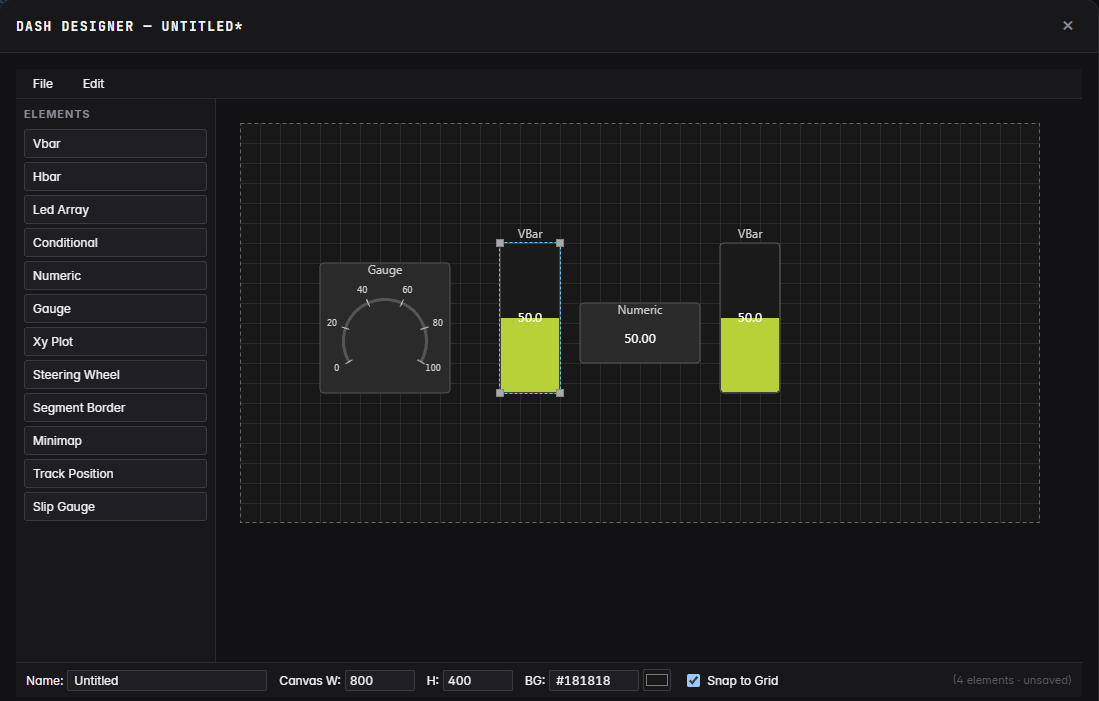
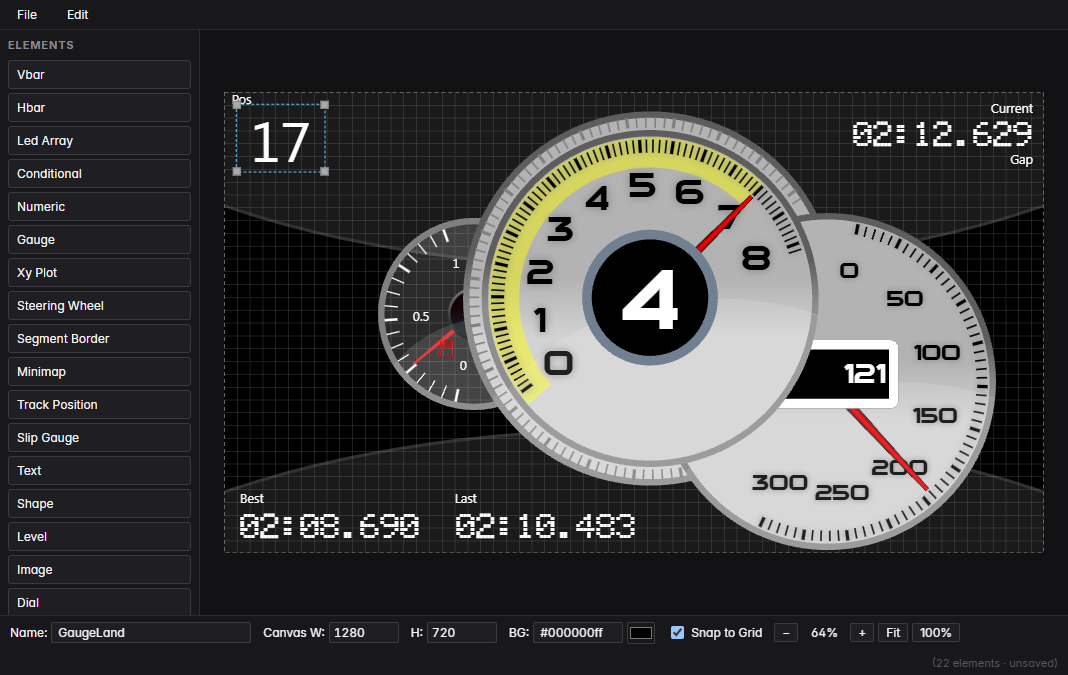
docs: add Dash formulas and Import SimHub dashes pages, update the Dash Designer
Two new Plugins pages after the Dash Designer:
- Dash formulas: formula rows on any element, the Drives targets, operators
  and functions, reading iRacing channels and SimHub names, Format patterns,
  and the JS / error markers.
- Import SimHub dashes: dash folders and packages, fonts from DashFonts, the
  import report's badges, what carries over, and saving the import.

The Dash Designer page gains the Text, Shape, Level, Image and Dial elements,
zoom, and images and fonts; its screenshot is retaken with an imported dash.
The Dash page links to the import, Shared sessions notes that embedded images
and fonts aren't shared, and Keyboard and mouse lists the Designer zoom keys.

diff --git a/docs/docs-content.js b/docs/docs-content.js
@@ -1337,7 +1337,7 @@ window.DOCS_ARTICLES = {
 <p>For a bigger view, choose Tools &gt; Libraries &gt; <strong>Dash Library...</strong>. It has the same <strong>Cloud</strong> and <strong>Local</strong> choice as the pane (switching one switches both) and, for Local, a <strong>Folder:</strong> box with <strong>Browse…</strong> and <strong>Reopen</strong>.</p>
 <ul>
   <li>Click a dash to select it and see it full size. Double-click it to open it in the Designer.</li>
-  <li><strong>New</strong> starts an empty dash in the <a href="docs-article.html?page=plugins.dash-designer">Dash Designer</a>, and <strong>Edit</strong> opens the selected one. Editing a cloud dash opens an unsaved local copy; the cloud version never changes.</li>
+  <li><strong>New</strong> starts an empty dash in the <a href="docs-article.html?page=plugins.dash-designer">Dash Designer</a>, and <strong>Edit</strong> opens the selected one. Editing a cloud dash opens an unsaved local copy; the cloud version never changes. To bring in a dash made in SimHub, see <a href="docs-article.html?page=plugins.dash-simhub">Import SimHub dashes</a>.</li>
   <li><strong>Duplicate</strong>, <strong>Rename…</strong> and <strong>Delete</strong> work on local dashes only.</li>
   <li><strong>Refresh</strong> lists the folder again, and <strong>Close</strong> closes the dialog.</li>
 </ul>
@@ -1359,20 +1359,20 @@ window.DOCS_ARTICLES = {
 'plugins.dash-designer': {
   section: 'Plugins',
   title: 'Dash Designer',
-  lede: 'Build your own dashboards from bars, gauges, lights and readouts, and bind each one to a telemetry channel.',
+  lede: 'Build your own dashboards from bars, dials, lights, readouts, text, shapes and images, and bind each one to a telemetry channel.',
   prev: ['plugins.dash', 'Dash'],
-  next: ['timeline.points', 'Timeline points'],
-  toc: ['open', 'elements', 'arrange', 'bind', 'save', 'related'],
-  tocLabels: ['Open the Designer', 'Add elements', 'Select, move and resize', 'Bind an element to a channel', 'Save your dash', 'Related'],
+  next: ['plugins.dash-formulas', 'Dash formulas'],
+  toc: ['open', 'elements', 'arrange', 'bind', 'assets', 'save', 'related'],
+  tocLabels: ['Open the Designer', 'Add elements', 'Select, move, resize and zoom', 'Bind an element to a channel', 'Add images and fonts', 'Save your dash', 'Related'],
   body: `
 <p>The Dash Designer is where you build and edit dashes: place elements on a canvas, bind each one to a telemetry channel, and save the result to your dash folder, ready to drop onto the <a href="docs-article.html?page=plugins.dash">Dash</a> canvas.</p>
-<figure><img src="docs-images/plugins.dash-designer.png" alt="The Dash Designer window with the Elements palette on the left, a canvas holding a gauge, two vertical bars and a numeric readout with one bar selected and its four corner handles showing, and the Name, Canvas W, H, BG and Snap to Grid fields along the bottom." width="1099" height="701" loading="lazy"></figure>
+<figure><img src="docs-images/plugins.dash-designer.png" alt="The Dash Designer with SimHub's GaugeLand dash imported: the Elements palette on the left running from Vbar down to Text, Shape, Level, Image and Dial, the canvas with a speedometer, a rev counter showing gear 4, a small gauge and lap-time readouts, the Pos readout selected with its four corner handles, and the Name, Canvas W, H, BG, Snap to Grid and zoom controls along the bottom." width="1068" height="675" loading="lazy"></figure>
 <h2 id="open">Open the Designer</h2>
 <ul>
   <li>Right-click a dash on the Dash Canvas, or a local thumbnail in the Dash Library pane, and choose <strong>Edit in Dash Designer</strong>.</li>
   <li>In Tools &gt; Libraries &gt; <strong>Dash Library...</strong>, click <strong>New</strong> for an empty dash, or select one and click <strong>Edit</strong>.</li>
 </ul>
-<p>The title shows the dash's name, with an asterisk while you have unsaved changes. The <strong>File</strong> menu has <strong>Save</strong>, <strong>Save As…</strong> and <strong>Close</strong>; the <strong>Edit</strong> menu starts with <strong>Undo</strong> (<code>Ctrl</code>+<code>Z</code>) and <strong>Redo</strong> (<code>Ctrl</code>+<code>Y</code>). Along the bottom, set the <strong>Name:</strong>, the size in pixels (<strong>Canvas W:</strong> and <strong>H:</strong>, 800 by 400 to start) and the background color (<strong>BG:</strong>).</p>
+<p>The title shows the dash's name, with an asterisk while you have unsaved changes. The <strong>File</strong> menu has <strong>Save</strong>, <strong>Save As…</strong>, the two SimHub import items (see <a href="docs-article.html?page=plugins.dash-simhub">Import SimHub dashes</a>) and <strong>Close</strong>; the <strong>Edit</strong> menu starts with <strong>Undo</strong> (<code>Ctrl</code>+<code>Z</code>) and <strong>Redo</strong> (<code>Ctrl</code>+<code>Y</code>). Along the bottom, set the <strong>Name:</strong>, the size in pixels (<strong>Canvas W:</strong> and <strong>H:</strong>, 800 by 400 to start) and the background color (<strong>BG:</strong>).</p>
 <h2 id="elements">Add elements</h2>
 <p>Click an element in the <strong>Elements</strong> palette on the left. It lands in the middle of the canvas, selected. Elements show real values at the playback cursor, so you can check them as you build.</p>
 <ul>
@@ -1380,22 +1380,28 @@ window.DOCS_ARTICLES = {
   <li><strong>Led Array</strong>: a row of lights, each lit when its channel passes a threshold, such as shift lights.</li>
   <li><strong>Conditional</strong>: text and a color chosen by rules; the first rule that matches wins.</li>
   <li><strong>Numeric</strong>: a number readout, as a decimal or a time (mm:ss).</li>
-  <li><strong>Gauge</strong>: a round dial with a needle.</li>
+  <li><strong>Gauge</strong>: a simple round gauge with a needle.</li>
   <li><strong>Xy Plot</strong>: a dot inside a circle, driven by two channels, like a g-meter.</li>
   <li><strong>Steering Wheel</strong>: a wheel that turns with your steering.</li>
   <li><strong>Segment Border</strong>: a line or outline you draw to frame a group of elements.</li>
   <li><strong>Minimap</strong>: a map of the track with a dot for the car.</li>
   <li><strong>Track Position</strong>: a slice across the track showing where the car sits between the edges, and its angle to the track.</li>
   <li><strong>Slip Gauge</strong>: the car's slip angle (where it points against where it's going), or an understeer and oversteer reading.</li>
+  <li><strong>Text</strong>: text in any font. Add a formula to make it show a value.</li>
+  <li><strong>Shape</strong>: a filled rectangle or ellipse, for backgrounds and panels.</li>
+  <li><strong>Level</strong>: a bar or an arc that fills between a low and a high value, smoothly or in steps.</li>
+  <li><strong>Image</strong>: a picture, such as a logo.</li>
+  <li><strong>Dial</strong>: a detailed round gauge with ticks, labels, colored ranges and a needle.</li>
 </ul>
 <p>To draw a Segment Border, click it in the palette, then click on the canvas to add points. Double-click or press <code>Enter</code> to finish, or click the first point to close the shape. <code>Esc</code> cancels.</p>
-<h2 id="arrange">Select, move and resize</h2>
+<h2 id="arrange">Select, move, resize and zoom</h2>
 <ul>
   <li>Click an element to select it. <code>Shift</code>+click adds to the selection, and dragging across empty canvas selects everything the box touches. Select a Segment Border by clicking its line.</li>
   <li>Drag the selection to move it, or nudge it with the arrow keys (hold <code>Shift</code> for 10 pixels).</li>
   <li>Drag one of the four corner handles to resize an element.</li>
   <li><strong>Snap to Grid</strong> (on to start with; <code>G</code> toggles it) lines elements up on a 20-pixel grid when you let go.</li>
   <li><code>Delete</code> removes the selection. The <strong>Edit</strong> menu also has <strong>Copy</strong>, <strong>Paste</strong>, <strong>Bring to Front</strong> and <strong>Send to Back</strong>.</li>
+  <li>To zoom, use the buttons after <strong>Snap to Grid</strong> in the bottom bar: <strong>−</strong> and <strong>+</strong>, <strong>Fit</strong> to see the whole dash, and <strong>100%</strong> for actual size. <code>Ctrl</code>+scroll zooms around the pointer.</li>
 </ul>
 <h2 id="bind">Bind an element to a channel</h2>
 <p>Double-click an element to open its settings. Click <strong>Apply</strong> to keep your changes or <strong>Cancel</strong> to drop them.</p>
@@ -1404,7 +1410,15 @@ window.DOCS_ARTICLES = {
   <li>Give it a <strong>Label</strong>. For bars and gauges, set <strong>Low</strong> and <strong>High</strong> to the range to cover (iRacing's pedals run from 0 to 1).</li>
   <li>To convert the value, pick one under <strong>Conversion</strong>, such as <strong>m/s → km/h</strong> for <code>Speed</code>. Or set <strong>Units</strong> to <strong>Follow app preference</strong> to use the units you chose in <a href="docs-article.html?page=settings.preferences">Preferences</a>.</li>
 </ol>
-<p>A Led Array or Conditional uses rules instead: click <strong>+ Add LED</strong> or <strong>+ Add rule</strong>, then set each row's <strong>Variable</strong>, <strong>Op</strong>, <strong>Threshold</strong> and color. The Xy Plot takes <strong>Variable X</strong> and <strong>Variable Y</strong>. For a Steering Wheel, choose <strong>iRacing</strong> under <strong>Preset</strong>. Every element also has <strong>Position &amp; Size</strong> fields and a <strong>Style</strong> group for borders, colors and fonts.</p>
+<p>A Led Array or Conditional uses rules instead: click <strong>+ Add LED</strong> or <strong>+ Add rule</strong>, then set each row's <strong>Variable</strong>, <strong>Op</strong>, <strong>Threshold</strong> and color. The Xy Plot takes <strong>Variable X</strong> and <strong>Variable Y</strong>. For a Steering Wheel, choose <strong>iRacing</strong> under <strong>Preset</strong>. Every element also has <strong>Position &amp; Size</strong> fields and a <strong>Style</strong> group for borders, colors, corners, opacity and rotation.</p>
+<p>To drive anything else, such as a Text element's words or a color, add a row under <strong>Formulas</strong>: see <a href="docs-article.html?page=plugins.dash-formulas">Dash formulas</a>.</p>
+<h2 id="assets">Add images and fonts</h2>
+<p>Images and fonts are saved inside the dash file, so the dash looks the same wherever it opens.</p>
+<ul>
+  <li><strong>Images:</strong> in an image field, such as an Image element's <strong>Image</strong>, click <strong>Choose…</strong> and pick a PNG, JPEG, GIF, WebP or BMP file, up to 4 MB.</li>
+  <li><strong>Fonts:</strong> in a font field, such as a Text element's <strong>Font</strong>, type the name of an installed font, or click <strong>Embed font…</strong> to add a <code>.ttf</code> or <code>.otf</code> file of up to 2 MB.</li>
+</ul>
+<p>One dash holds up to 16 MB of images and fonts. A dashed gray box with an X marks an image not chosen yet (<strong>no image</strong>) or not in the dash (<strong>missing image</strong>).</p>
 <h2 id="save">Save your dash</h2>
 <p>Dashes save to your local dash folder, which needs Chrome or Edge. In other browsers, <strong>Save</strong> downloads the dash as a <code>.json</code> file instead.</p>
 <ul>
@@ -1422,8 +1436,148 @@ window.DOCS_ARTICLES = {
 <h2 id="related">Related</h2>
 <ul>
   <li><a href="docs-article.html?page=plugins.dash">Dash</a></li>
-  <li><a href="docs-article.html?page=settings.preferences">Preferences</a></li>
+  <li><a href="docs-article.html?page=plugins.dash-formulas">Dash formulas</a></li>
+  <li><a href="docs-article.html?page=plugins.dash-simhub">Import SimHub dashes</a></li>
+</ul>
+`,
+},
+'plugins.dash-formulas': {
+  section: 'Plugins',
+  title: 'Dash formulas',
+  lede: 'Drive any part of a dash element, such as its text, color, visibility or size, with a formula worked out at the playback cursor.',
+  prev: ['plugins.dash-designer', 'Dash Designer'],
+  next: ['plugins.dash-simhub', 'Import SimHub dashes'],
+  toc: ['add', 'write', 'read', 'format', 'markers', 'related'],
+  tocLabels: ['Add a formula to an element', 'Write a formula', 'Read telemetry in a formula', 'Format the result', 'Spot a formula that is not running', 'Related'],
+  body: `
+<p>A formula is a short expression that Slipstream works out each time the dash draws, from the telemetry at the playback cursor. Any element can have formulas, and each one drives one setting: the words in a Text element, a color, whether the element shows, its size and more. Formulas are written in NCalc, the same language SimHub uses, so dashes you import from SimHub keep theirs.</p>
+<figure><img src="docs-images/plugins.dash-formulas.png" alt="The Text Config dialog scrolled down to its Style group and, below it, the Formulas group: one row with Drives set to Text, the formula isnull([Position], '1') and the Format 0, the + Add formula button above the row, and Cancel and Apply at the bottom." width="640" height="640" loading="lazy"></figure>
+<h2 id="add">Add a formula to an element</h2>
+<ol>
+  <li>In the <a href="docs-article.html?page=plugins.dash-designer">Dash Designer</a>, double-click the element to open its settings.</li>
+  <li>At the bottom of the dialog, under <strong>Formulas</strong>, click <strong>+ Add formula</strong>.</li>
+  <li>Under <strong>Drives</strong>, pick the setting the formula controls.</li>
+  <li>Type the expression under <strong>Formula</strong>. For text, add a <strong>Format</strong> if you want one.</li>
+  <li>Click <strong>Apply</strong>. The element shows the result straight away.</li>
+</ol>
+<p>The × at the end of a row removes it. A formula overrides the setting it drives, as long as the element has that setting:</p>
+<ul>
+  <li><strong>Text</strong>: the words of a Text element.</li>
+  <li><strong>Visible</strong>: shows the element while the result is true. With several Visible rows, all of them must be true.</li>
+  <li><strong>Opacity</strong>: from 0 (invisible) to 1 (solid).</li>
+  <li><strong>Value</strong>, <strong>Low</strong> and <strong>High</strong>: the value and range of a Level or Dial. Value takes effect only while the element's <strong>Variable</strong> is empty.</li>
+  <li>The colors, such as <strong>Text Color</strong>, <strong>Background</strong>, <strong>Fill Color</strong> and <strong>Needle Color (dial)</strong>: a color in quotes, such as <code>'#ff0000'</code>, or <code>'#ff000080'</code> to make it half see-through.</li>
+  <li><strong>Range Start (dial)</strong> and <strong>Range End (dial)</strong>: where a dial's colored range begins and ends.</li>
+  <li><strong>Rotation</strong> in degrees, <strong>Font Size</strong>, and <strong>X</strong>, <strong>Y</strong>, <strong>Width</strong> and <strong>Height</strong> in canvas pixels.</li>
+</ul>
+<p><strong>Image</strong> switches pictures only on elements imported from SimHub that came with a set of them.</p>
+<h2 id="write">Write a formula</h2>
+<p>A formula can use numbers, text in single quotes, the arithmetic signs <code>+ - * / %</code>, comparisons (<code>&gt;</code>, <code>&lt;</code>, <code>&gt;=</code>, <code>&lt;=</code>, <code>==</code> and <code>&lt;&gt;</code>), the words <code>and</code>, <code>or</code> and <code>not</code>, and functions such as <code>if</code>, <code>isnull</code>, <code>round</code>, <code>abs</code>, <code>min</code>, <code>max</code> and <code>format</code>. Some examples:</p>
+<ul>
+  <li><code>[RPM] &gt; 7000</code> on <strong>Visible</strong> shows a shift warning only above 7,000 RPM.</li>
+  <li><code>if([FuelLevel] &lt; 5, '#ff3030', '#ffffff')</code> on <strong>Text Color</strong> turns a fuel readout red below 5 liters.</li>
+  <li><code>round([Speed] * 3.6)</code> on <strong>Text</strong> shows the speed in km/h as a whole number.</li>
+  <li><code>[Gear]</code> on <strong>Text</strong> shows the gear as SimHub writes it: <code>R</code>, <code>N</code> or a number.</li>
+</ul>
+<h2 id="read">Read telemetry in a formula</h2>
+<p>Put a name in square brackets to read its value at the cursor. Two kinds of name work:</p>
+<ul>
+  <li><strong>iRacing channels</strong>, by the names the <strong>Variable</strong> field suggests, such as <code>[RPM]</code>, <code>[Speed]</code> or <code>[LFtempCM]</code>. They come in iRacing's units: speed in meters per second, pedals from 0 to 1.</li>
+  <li><strong>SimHub property names</strong>, such as <code>[SpeedKmh]</code>, <code>[Rpms]</code> or <code>[DataCorePlugin.GameData.NewData.Gear]</code>. Case doesn't matter, and you can leave out <code>DataCorePlugin.</code> and <code>GameData.NewData.</code>.</li>
+</ul>
+<p>A few names exist in both, and then SimHub's meaning wins: <code>[Throttle]</code>, <code>[Brake]</code> and <code>[Clutch]</code> run from 0 to 100, and <code>[Gear]</code> is text. For iRacing's own channel, write <code>[GameRawData.Telemetry.Throttle]</code>.</p>
+<p>A name Slipstream doesn't know reads as empty. <code>isnull([Name], 0)</code> gives a fallback, here 0, while it's empty. Some SimHub values, such as previous lap times and fuel per lap, are worked out from your laps: see <a href="docs-article.html?page=plugins.dash-simhub">Import SimHub dashes</a>.</p>
+<h2 id="format">Format the result</h2>
+<p>For a Text row, the <strong>Format</strong> box takes a pattern, written the way SimHub writes them:</p>
+<ul>
+  <li><code>0</code> for a whole number, <code>0.0</code> or <code>0.00</code> for one or two decimals, and <code>#,##0</code> for a thousands separator.</li>
+  <li><code>m\\:ss\\.fff</code> for a lap time: <code>[LapLastLapTime]</code> shows as <code>1:42.315</code>.</li>
+  <li>Other characters are kept as they are: <code>0.0 L</code> shows <code>42.0 L</code>.</li>
+</ul>
+<p>The same patterns work inside a formula, as in <code>format([FuelLevel], '0.0')</code>.</p>
+<h2 id="markers">Spot a formula that is not running</h2>
+<p>A small marker in an element's top-right corner means one of its formulas isn't running. The element keeps its own settings in the meantime.</p>
+<ul>
+  <li><strong>JS</strong> (amber): a JavaScript formula from an imported SimHub dash. Slipstream doesn't run JavaScript formulas yet, so the element keeps the value it had in SimHub.</li>
+  <li><strong>ƒ!</strong> (red): a formula Slipstream can't read, often because of a missing bracket or quote. Open the element and check the expression.</li>
+</ul>
+<p>On a very small element the marker is just a dot.</p>
+<h2 id="related">Related</h2>
+<ul>
+  <li><a href="docs-article.html?page=plugins.dash-designer">Dash Designer</a></li>
+  <li><a href="docs-article.html?page=plugins.dash-simhub">Import SimHub dashes</a></li>
   <li><a href="docs-article.html?page=plots.channels">Plots and channels</a></li>
+</ul>
+`,
+},
+'plugins.dash-simhub': {
+  section: 'Plugins',
+  title: 'Import SimHub dashes',
+  lede: 'Bring a dash made in SimHub Dash Studio into Slipstream, with its images, fonts and formulas, and replay your laps through it.',
+  prev: ['plugins.dash-formulas', 'Dash formulas'],
+  next: ['timeline.points', 'Timeline points'],
+  toc: ['find', 'import', 'fonts', 'report', 'carries', 'save', 'related'],
+  tocLabels: ['Find the dash files', 'Import a dash', 'Include the fonts', 'Read the import report', 'Know what carries over', 'Save the imported dash', 'Related'],
+  body: `
+<p>Dashes made in SimHub's Dash Studio import straight into the <a href="docs-article.html?page=plugins.dash-designer">Dash Designer</a>. Slipstream rebuilds each SimHub item from its own elements, so the dash looks close to the original rather than identical, and its formulas keep running against your laps. Once imported, it's a dash like any other: edit it, save it and put it on the Dash canvas.</p>
+<figure><img src="docs-images/plugins.dash-simhub.png" alt="The SimHub Import Report over the imported GaugeLand dash. It starts with Imported screen Screen1 from GaugeLand.djson: 22 elements, then two Approximated lines (dial gauges redrawn by Slipstream, and one SimHub property Slipstream can't supply yet) and two Note lines (values driven by SimHub formulas, and built-in readouts recreated as live formulas), each naming its items, with Copy Report and OK at the bottom." width="740" height="640" loading="lazy"></figure>
+<h2 id="find">Find the dash files</h2>
+<p>You can import either of these:</p>
+<ul>
+  <li><strong>A dash folder.</strong> SimHub keeps each installed dash in its own folder under <code>DashTemplates</code>, usually <code>C:\\Program Files (x86)\\SimHub\\DashTemplates</code>. The folder holds the dash's <code>.djson</code> file and a <code>.djson.ressources</code> file with its images. Pick the whole folder, not just the <code>.djson</code>, so the images come too.</li>
+  <li><strong>A package.</strong> A <code>.simhubdash</code> file, the way dashes are usually shared online, or a downloaded <code>.zip</code> with one inside.</li>
+</ul>
+<h2 id="import">Import a dash</h2>
+<ol>
+  <li>Open the Dash Designer, for example with Tools &gt; Libraries &gt; <strong>Dash Library...</strong> and then <strong>New</strong>.</li>
+  <li>Choose File &gt; <strong>Import SimHub Dash Folder…</strong> and pick the dash's folder, or File &gt; <strong>Import SimHub Package…</strong> and pick the <code>.simhubdash</code> or <code>.zip</code> file.</li>
+  <li>The <strong>Import SimHub Dash</strong> dialog shows the dash's file, its size in pixels and how many screens it has. If the folder holds more than one dash, choose one under <strong>Dashboard file</strong>.</li>
+  <li>Pick the screen to import. Each one lists how many items it has and when SimHub shows it, such as <strong>in game</strong>, <strong>idle</strong> or <strong>pit</strong>.</li>
+  <li>Click <strong>Import</strong>. If the Designer has unsaved changes, it asks before replacing them.</li>
+</ol>
+<p>Screens come in one at a time. To bring in another screen of the same dash, import it again.</p>
+<div class="callout tip">
+  <span class="ic">&#10003;</span>
+  <div>
+    <span class="lbl">Tip</span>
+    <p>When you pick a folder, the browser may ask whether to upload its files to the site. Slipstream reads them inside your browser, and nothing is sent anywhere.</p>
+  </div>
+</div>
+<h2 id="fonts">Include the fonts</h2>
+<p>SimHub keeps dash fonts in a folder of their own, so most dashes arrive without them. The dialog says how many font files it found. To add them:</p>
+<ol>
+  <li>Click <strong>Add Font Files…</strong>.</li>
+  <li>Open SimHub's <code>DashFonts</code> folder, usually <code>C:\\Program Files (x86)\\SimHub\\DashFonts</code>, and pick the fonts. Picking all of them is fine: Slipstream keeps only the ones the dash uses.</li>
+</ol>
+<p>Text in a font that's neither added nor installed on your computer uses a fallback font. Fonts that come with Windows, such as Arial or Segoe UI, don't need adding.</p>
+<h2 id="report">Read the import report</h2>
+<p>When the import finishes, the <strong>SimHub Import Report</strong> lists everything that didn't carry over exactly, each line with a badge:</p>
+<ul>
+  <li><strong>Problem</strong>: something missing or broken in the files, such as an image that isn't there or a formula that can't be read.</li>
+  <li><strong>Not supported</strong>: SimHub items with no Slipstream equivalent yet. Each one shows as a dashed amber box marked ⚠ with its SimHub type, so the layout stays intact. JavaScript formulas are listed here too.</li>
+  <li><strong>Approximated</strong>: things drawn close to SimHub but not the same, such as fonts that weren't included, dials redrawn by Slipstream, or a track map shown as the Slipstream minimap.</li>
+  <li><strong>Note</strong>: things worth knowing, such as values worked out from your laps, or items that stay hidden until SimHub would show them.</li>
+</ul>
+<p>Each line names up to 12 of the items it's about. <strong>Copy Report</strong> copies the report as text, and <strong>OK</strong> closes it. If it says <strong>Everything carried over.</strong>, there's nothing to report.</p>
+<h2 id="carries">Know what carries over</h2>
+<ul>
+  <li><strong>Layout:</strong> text, rectangles, ellipses, gradients, images, bars, round gauges and dials become Text, Shape, Image, Level and Dial elements. Layers, groups and widgets become plain elements. Hidden items show faded in the Designer. A dash larger than 4000 by 2000 pixels is scaled down to fit.</li>
+  <li><strong>Formulas:</strong> NCalc formulas keep running, and SimHub's built-in readouts become formulas too. See <a href="docs-article.html?page=plugins.dash-formulas">Dash formulas</a>. JavaScript formulas aren't run yet: their elements keep the value they had in SimHub and show a <strong>JS</strong> marker.</li>
+  <li><strong>Values from your laps:</strong> previous lap times and their gap to your best, fuel used last lap and per lap, laps and time of fuel left, and the first three sector times. Slipstream works these out from the finished laps before the playback cursor, in the same file, so they stay empty until a lap has finished.</li>
+  <li><strong>Shift lights</strong> light from the run's own RPM range, not from each car's shift points as SimHub knows them.</li>
+  <li><strong>Not available:</strong> anything about other cars (gaps, names and positions of the cars around you), computer readings such as CPU temperature, properties you defined in your own SimHub settings, and SimHub's notifications. These read as empty or keep their design-time text.</li>
+</ul>
+<h2 id="save">Save the imported dash</h2>
+<p>The import opens as an unsaved dash, named after the SimHub file, with the screen's name added when the dash has several screens. To keep it:</p>
+<ol>
+  <li>Choose File &gt; <strong>Save As…</strong> and save it into your dash folder (Chrome or Edge). Its images and fonts go inside the dash file.</li>
+  <li>In the Dash Library, click <strong>Local</strong> to find it, and drag it onto the <a href="docs-article.html?page=plugins.dash">Dash</a> canvas.</li>
+</ol>
+<h2 id="related">Related</h2>
+<ul>
+  <li><a href="docs-article.html?page=plugins.dash-designer">Dash Designer</a></li>
+  <li><a href="docs-article.html?page=plugins.dash-formulas">Dash formulas</a></li>
+  <li><a href="docs-article.html?page=plugins.dash">Dash</a></li>
 </ul>
 `,
 },
@@ -1436,7 +1590,7 @@ window.DOCS_ARTICLES = {
   section: 'Timeline',
   title: 'Timeline points',
   lede: 'Markers on the lap that cut the camera, change playback speed, show notes or switch what ghosts and traces show, every time playback passes them.',
-  prev: ['plugins.dash-designer', 'Dash Designer'],
+  prev: ['plugins.dash-simhub', 'Import SimHub dashes'],
   next: ['timeline.presentation', 'Building a presentation lap'],
   toc: ['add', 'kinds', 'edit', 'filter', 'keys', 'save', 'related'],
   tocLabels: ['Add a point at the cursor', 'Know what each kind does', 'Edit, move and delete points', 'Filter kinds and switch points off', 'Use the keyboard', 'Save and load points', 'Related'],
@@ -1707,6 +1861,7 @@ window.DOCS_ARTICLES = {
   <li>The rail tab, which 3D sidebar and plugin panels are open, Multi-Lap Timing's lap windows, and the Dash canvas.</li>
 </ul>
 <p>Some things stay your own: which plugins are switched on, the rail columns, the 2D plot sidebar, your Preferences and your Assistant chat.</p>
+<p>Dashes on the Dash canvas come across without their embedded images and fonts, so other people see <strong>missing image</strong> boxes and a fallback font where your dash has its own.</p>
 <h2 id="pools">Upload a session to a test pool</h2>
 <p>This is only for members of a private test pool (a set of cloud runs only its members can see) whose membership allows uploads. It turns one of your own .ibt files into a cloud run in the pool, ready to share.</p>
 <ol>
@@ -2043,6 +2198,7 @@ window.DOCS_ARTICLES = {
   <li>Arrow keys: nudge the selection 1 pixel, or 10 pixels with <code>Shift</code>.</li>
   <li><code>Delete</code> or <code>Backspace</code>: delete the selection. <code>Esc</code>: clear the selection.</li>
   <li><code>G</code>: turn <strong>Snap to Grid</strong> on or off.</li>
+  <li><code>Ctrl</code>+<code>=</code> and <code>Ctrl</code>+<code>-</code>: zoom in and out. <code>Ctrl</code>+<code>0</code>: <strong>Fit</strong>. <code>Ctrl</code>+<code>1</code>: <strong>100%</strong>. <code>Ctrl</code>+scroll zooms around the pointer.</li>
   <li><code>Shift</code>+click adds an element to the selection. Double-click an element to open its settings.</li>
   <li>While drawing a <strong>Segment Border</strong>: <code>Enter</code> or a double-click finishes it, <code>Ctrl</code>+<code>Z</code> removes the last point and <code>Esc</code> cancels.</li>
 </ul>

diff --git a/plans/slipstream-docs.md b/plans/slipstream-docs.md
@@ -1,6 +1,6 @@
 # Plan: replace the docs with Slipstream docs
 
-**Status:** all 31 pages written (2026-10-25). Screenshots: all 31 pages have one (2026-10-26).
+**Status:** all 31 pages written (2026-10-25), plus Dash formulas and Import SimHub dashes (2026-10-27): 33 pages. Screenshots: every page has one (the two new pages and a Dash Designer retake, 2026-10-27).
 
 The articles in `docs/docs-content.js` describe LapLabs Studio, the desktop node-graph app that is being phased out. This plan replaces all of them with documentation for **Slipstream**, the LapLabs web app. Nothing from the old articles is migrated. The old set went too deep: a reference page per node, per plot type, per dialog. The new set is shorter and organized around what you do on the screen.
 
@@ -24,7 +24,7 @@ The sections follow the screen, from left to right:
 
 **Ghosts** get their own section because they run through every view. **Sharing and live** and **Reference** sit at the end.
 
-About 31 pages in 12 sections:
+About 33 pages in 12 sections:
 
 | # | Section | Article ID | Title | Covers |
 |---|---|---|---|---|
@@ -49,6 +49,8 @@ About 31 pages in 12 sections:
 | | | `plugins.scatter` | Scatter | 2D and 3D scatter, expressions, colour |
 | | | `plugins.dash` | Dash | The canvas, the dash library, data sources, pop-out |
 | | | `plugins.dash-designer` | Dash Designer | Building and editing a dash, element types |
+| | | `plugins.dash-formulas` | Dash formulas | Formula rows on any element, what a formula can read, formats, the JS and error markers |
+| | | `plugins.dash-simhub` | Import SimHub dashes | Dash folders and packages, fonts, the import report, what carries over |
 | 08 | Timeline | `timeline.points` | Timeline points | The six point kinds, how they fire every lap, hotkeys, importing |
 | | | `timeline.presentation` | Building a presentation lap | A walkthrough that combines camera, speed and note points |
 | 09 | Assistant | `assistant.using` | Using the Assistant | Connecting a provider and API key, what to ask, letting it act on the app, remote control from an AI client |
